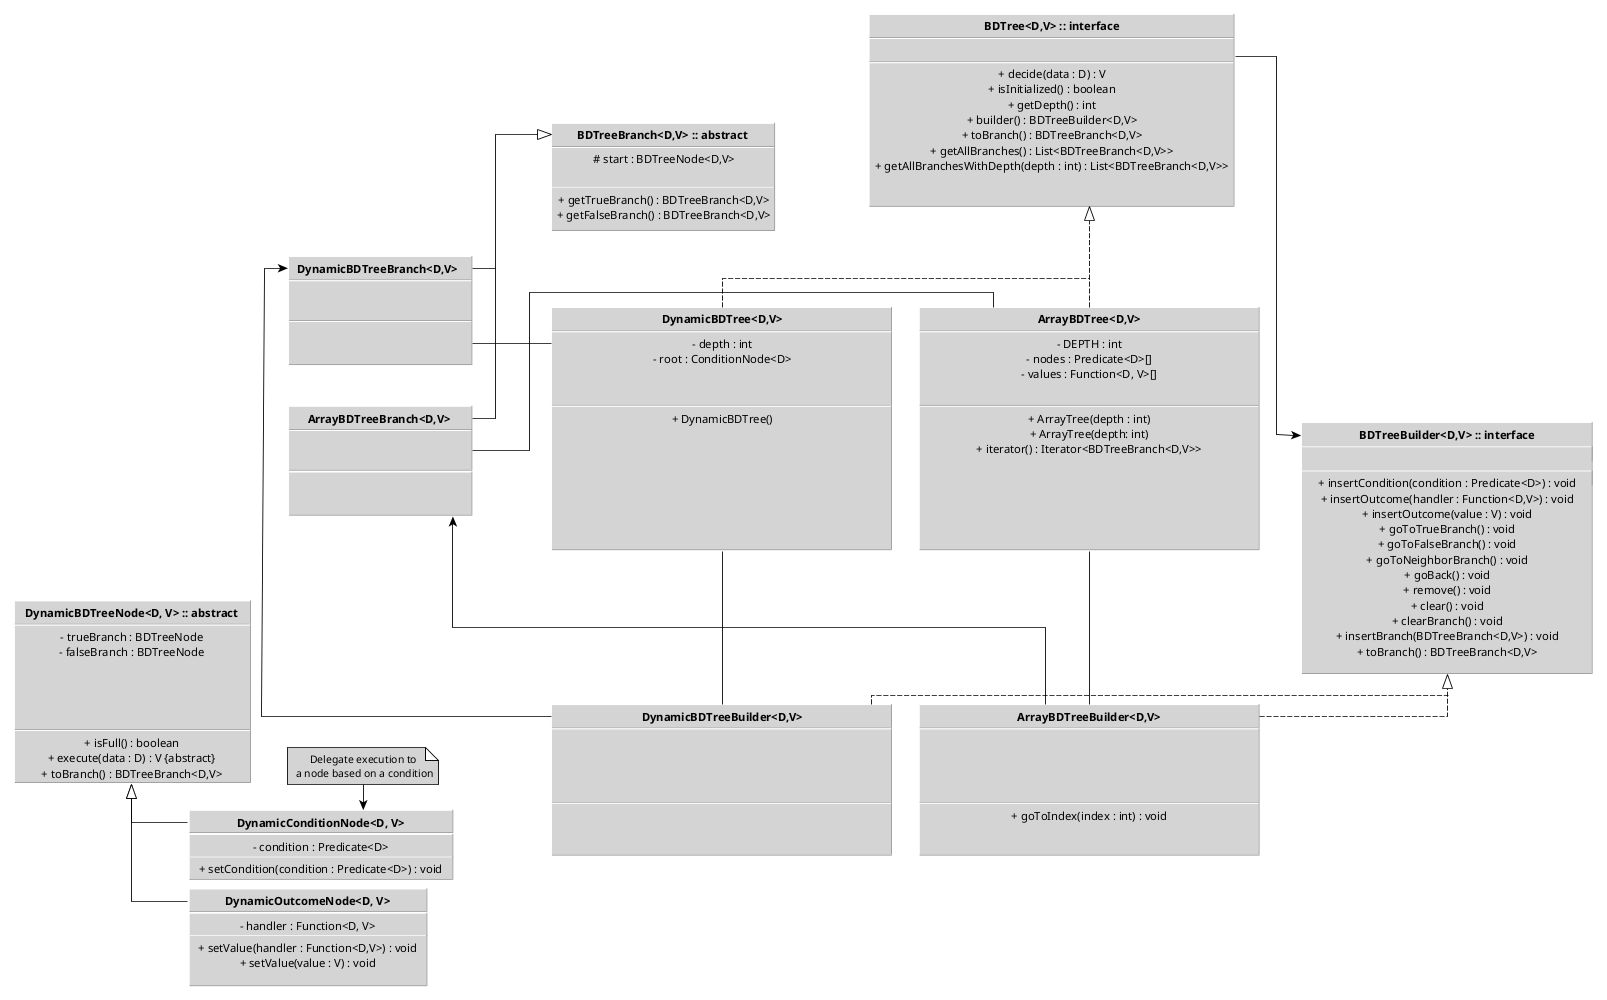
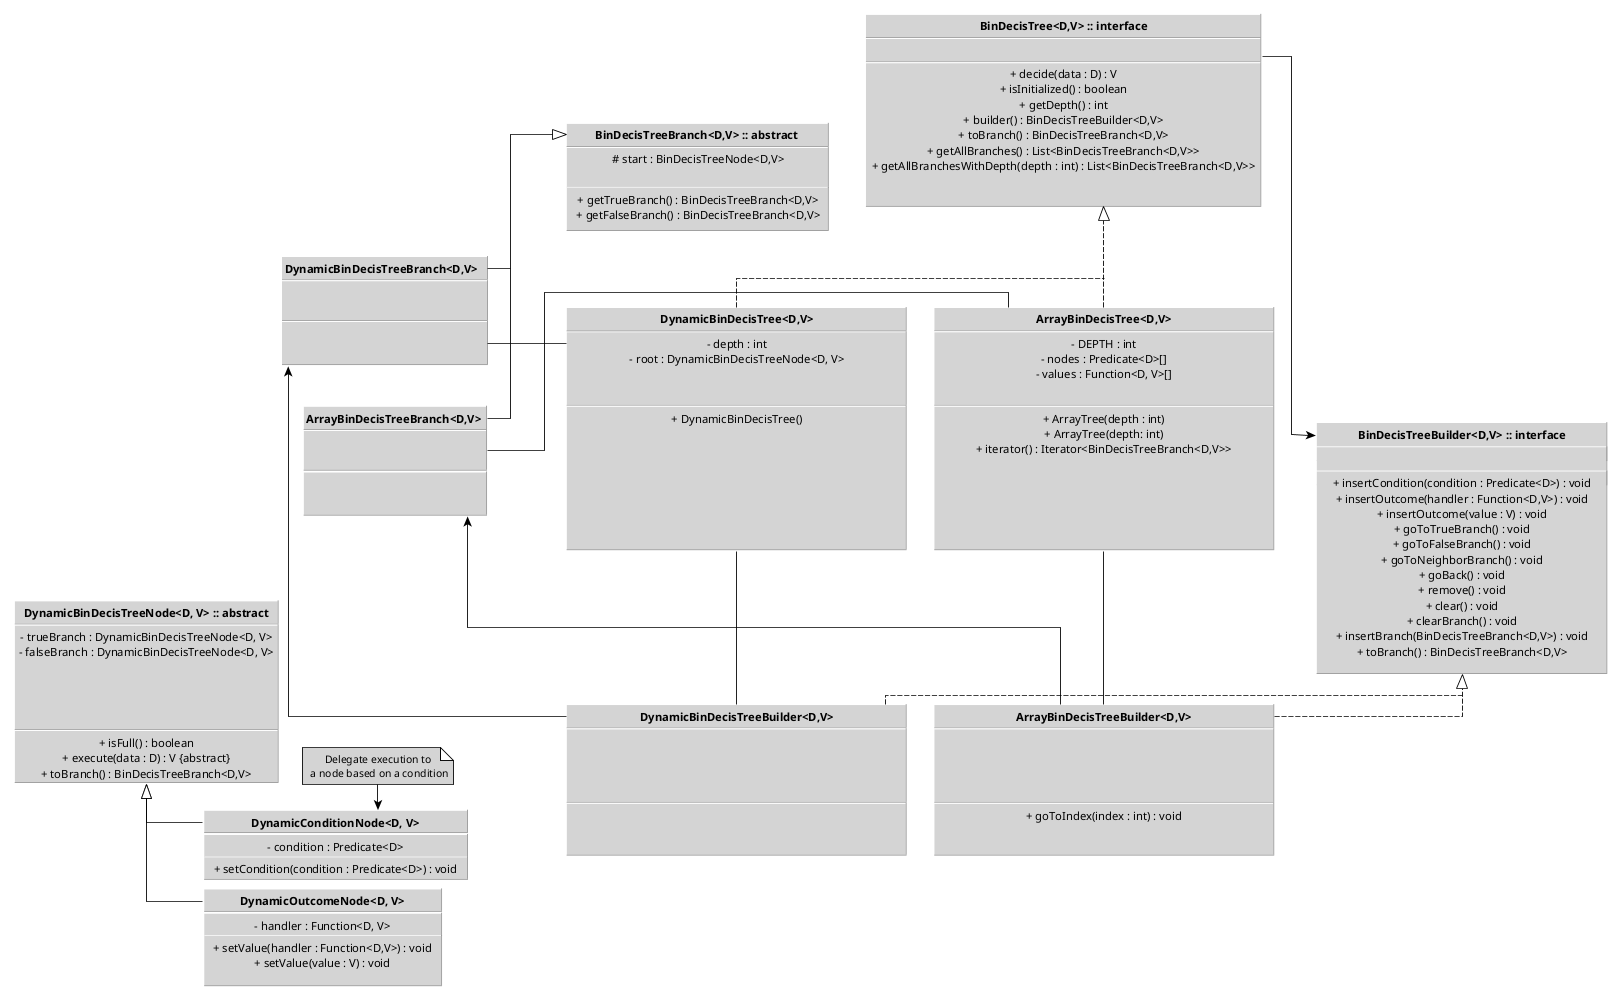
refactor: rename to BinDecisTree

diff --git a/src/test/java/io/github/jinseisieko/bindecistree/BDTreeNodeTest.java b/src/test/java/io/github/jinseisieko/bindecistree/BDTreeNodeTest.java
@@ -1,4 +1,4 @@
-package io.github.jinseisieko.bdtree;
+package io.github.jinseisieko.bindecistree;
 import static org.junit.jupiter.api.Assertions.assertTrue;
 import org.junit.jupiter.api.Test;
 

diff --git a/src/main/java/io/github/jinseisieko/bindecistree/BDTreeNode.java b/src/main/java/io/github/jinseisieko/bindecistree/BDTreeNode.java
@@ -1,0 +1,4 @@
+package io.github.jinseisieko.bindecistree;
+
+public abstract class BDTreeNode {
+}
